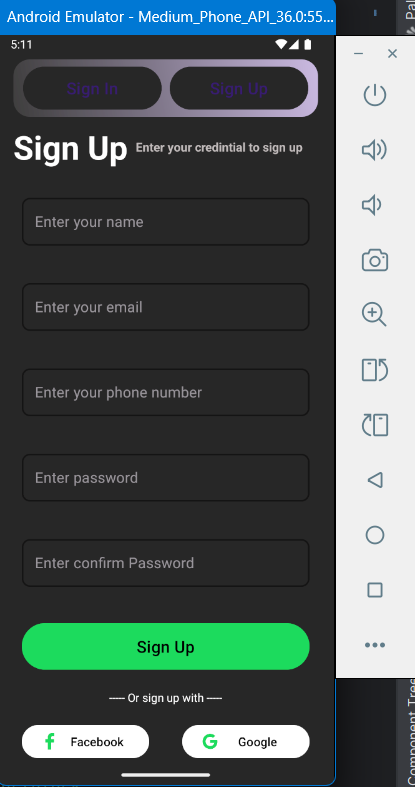
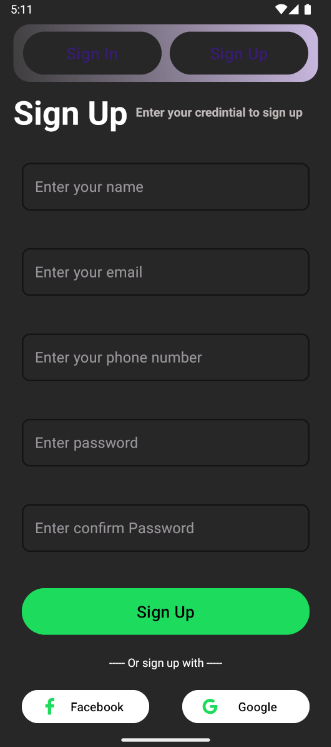
set images and added some animations

diff --git a/uniqueLoginSignup.html b/uniqueLoginSignup.html
@@ -3,6 +3,10 @@
 <head>
   <meta charset="UTF-8">
   <title>Login & Signup App</title>
+  <script
+  src="https://unpkg.com/@lottiefiles/dotlottie-wc@0.6.2/dist/dotlottie-wc.js"
+  type="module"
+></script>
   <script src="https://cdn.tailwindcss.com"></script>
   <style>
     /* Animations */
@@ -30,7 +34,13 @@
       <a href="#features" class="bg-yellow-400 text-black px-6 py-3 rounded-lg font-semibold hover:scale-110 transition">Explore Features</a>
       <a href="#download" class="bg-white/20 px-6 py-3 rounded-lg font-semibold hover:scale-110 transition">Try Now</a>
     </div>
-    <img src="https://via.placeholder.com/800x400" alt="App Preview" class="mt-12 rounded-xl shadow-2xl fade-up" style="animation-delay:1s">
+    <dotlottie-wc
+  src="https://lottie.host/581246e4-4695-4405-acb5-469de37be714/14MA0pctpt.lottie"
+  style="width: 300px;height: 300px"
+  speed="1"
+  autoplay
+  loop
+></dotlottie-wc>
   </section>
 
   <!-- Features Section -->
@@ -56,7 +66,7 @@
   <section class="py-20 px-6">
     <h2 class="text-4xl font-bold text-center mb-12 fade-up">⚙ How It Works</h2>
     <div class="max-w-4xl mx-auto grid grid-cols-1 md:grid-cols-2 gap-10 items-center">
-      <img src="https://via.placeholder.com/500x350" alt="Step Demo" class="rounded-lg shadow-xl fade-up">
+      <img src="images/uniqueLoginSignup/homeLS.jpg" alt="Step Demo" class="rounded-lg shadow-xl fade-up">
       <ol class="space-y-6 text-lg fade-up" style="animation-delay:0.4s">
         <li>1⃣ User installs the Android app from Play Store or APK.</li>
         <li>2⃣ Opens the app and sees a modern login/signup screen.</li>
